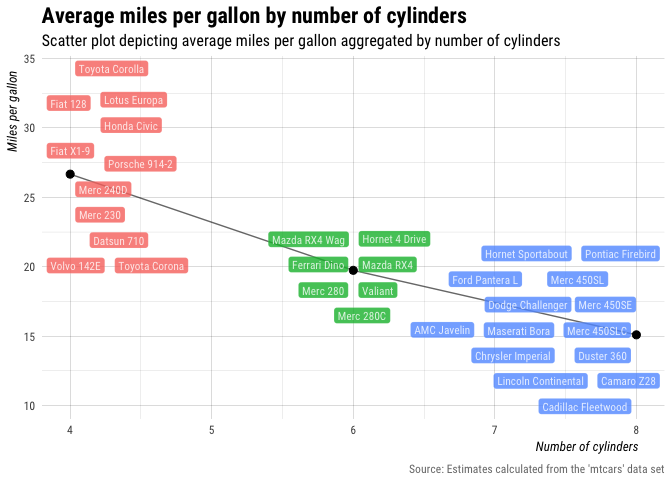
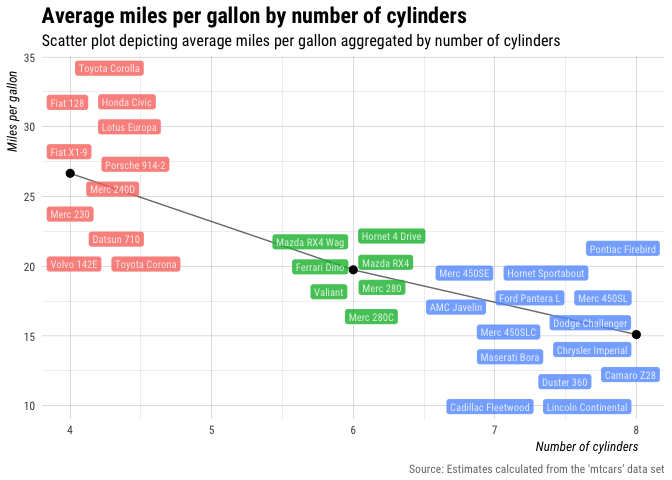
edit plot

Changed region(s): [[0.0625, 0.4688, 1.0, 0.875], [0.0312, 0.0938, 0.9688, 0.5938]]

diff --git a/docs/post/2018-09-19-tick-marks-var-names-and-ggplot2/index.html b/docs/post/2018-09-19-tick-marks-var-names-and-ggplot2/index.html
@@ -459,8 +459,8 @@ x <span class="o">&lt;-</span> rnorm<span class="p">(</span><span class="m">10</
 
 <span class="c1">## print x wrapped in tick marks</span>
 <span class="sb">`x`</span>
-<span class="c1">#&gt;  [1] -1.261127 -0.460150  0.242471  1.102429  1.075430 -1.026970 -1.609631</span>
-<span class="c1">#&gt;  [8]  1.240303  1.494035  0.377001</span></code></pre></div>
+<span class="c1">#&gt;  [1] -1.4193929 -0.7352939 -1.0234430 -1.5542871 -0.3020631  1.5555810</span>
+<span class="c1">#&gt;  [7] -1.2485056 -0.0113328  0.5811450 -0.3703764</span></code></pre></div>
 <p>So, really, tick marks are used to distinguish symbols that contain one or more
 unfriendly punctuation/characters, e.g., parenthesis, dashes, spaces, etc.</p>
 
@@ -511,7 +511,7 @@ mtcars <span class="o">%&gt;%</span>
   ggrepel<span class="o">::</span>geom_label_repel<span class="p">(</span>data <span class="o">=</span> mtcars2<span class="p">,</span> 
     aes<span class="p">(</span>y <span class="o">=</span> mpg<span class="p">,</span> color <span class="o">=</span> <span class="kp">factor</span><span class="p">(</span>cyl<span class="p">),</span> fill <span class="o">=</span> <span class="kp">factor</span><span class="p">(</span>cyl<span class="p">),</span> label <span class="o">=</span> make<span class="p">),</span> 
     family <span class="o">=</span> <span class="s">&#34;Roboto Condensed&#34;</span><span class="p">,</span> label.padding <span class="o">=</span> <span class="m">0.2</span><span class="p">,</span> label.size <span class="o">=</span> <span class="m">.05</span><span class="p">,</span> 
-    min.segment.length <span class="o">=</span> <span class="m">100</span><span class="p">,</span> color <span class="o">=</span> <span class="s">&#34;white&#34;</span><span class="p">,</span> size <span class="o">=</span> <span class="m">3.0</span><span class="p">,</span> alpha <span class="o">=</span> <span class="m">.8</span><span class="p">)</span> <span class="o">+</span> 
+    min.segment.length <span class="o">=</span> <span class="m">100</span><span class="p">,</span> color <span class="o">=</span> <span class="s">&#34;white&#34;</span><span class="p">,</span> size <span class="o">=</span> <span class="m">2.8</span><span class="p">,</span> alpha <span class="o">=</span> <span class="m">.8</span><span class="p">)</span> <span class="o">+</span> 
   my_theme<span class="p">()</span> <span class="o">+</span> 
   my_labs<span class="p">()</span> <span class="o">+</span> 
   my_save<span class="p">(</span><span class="s">&#34;img/tick-marks-final.png&#34;</span><span class="p">)</span></code></pre></div>

diff --git a/content/post/2018-09-19-tick-marks-var-names-and-ggplot2.md b/content/post/2018-09-19-tick-marks-var-names-and-ggplot2.md
@@ -303,8 +303,8 @@ x <- rnorm(10)
 
 ## print x wrapped in tick marks
 `x`
-#>  [1] -1.261127 -0.460150  0.242471  1.102429  1.075430 -1.026970 -1.609631
-#>  [8]  1.240303  1.494035  0.377001
+#>  [1] -1.4193929 -0.7352939 -1.0234430 -1.5542871 -0.3020631  1.5555810
+#>  [7] -1.2485056 -0.0113328  0.5811450 -0.3703764
 ```
 
 So, really, tick marks are used to distinguish symbols that contain one or more
@@ -370,7 +370,7 @@ mtcars %>%
   ggrepel::geom_label_repel(data = mtcars2, 
     aes(y = mpg, color = factor(cyl), fill = factor(cyl), label = make), 
     family = "Roboto Condensed", label.padding = 0.2, label.size = .05, 
-    min.segment.length = 100, color = "white", size = 3.0, alpha = .8) + 
+    min.segment.length = 100, color = "white", size = 2.8, alpha = .8) + 
   my_theme() + 
   my_labs() + 
   my_save("img/tick-marks-final.png")
